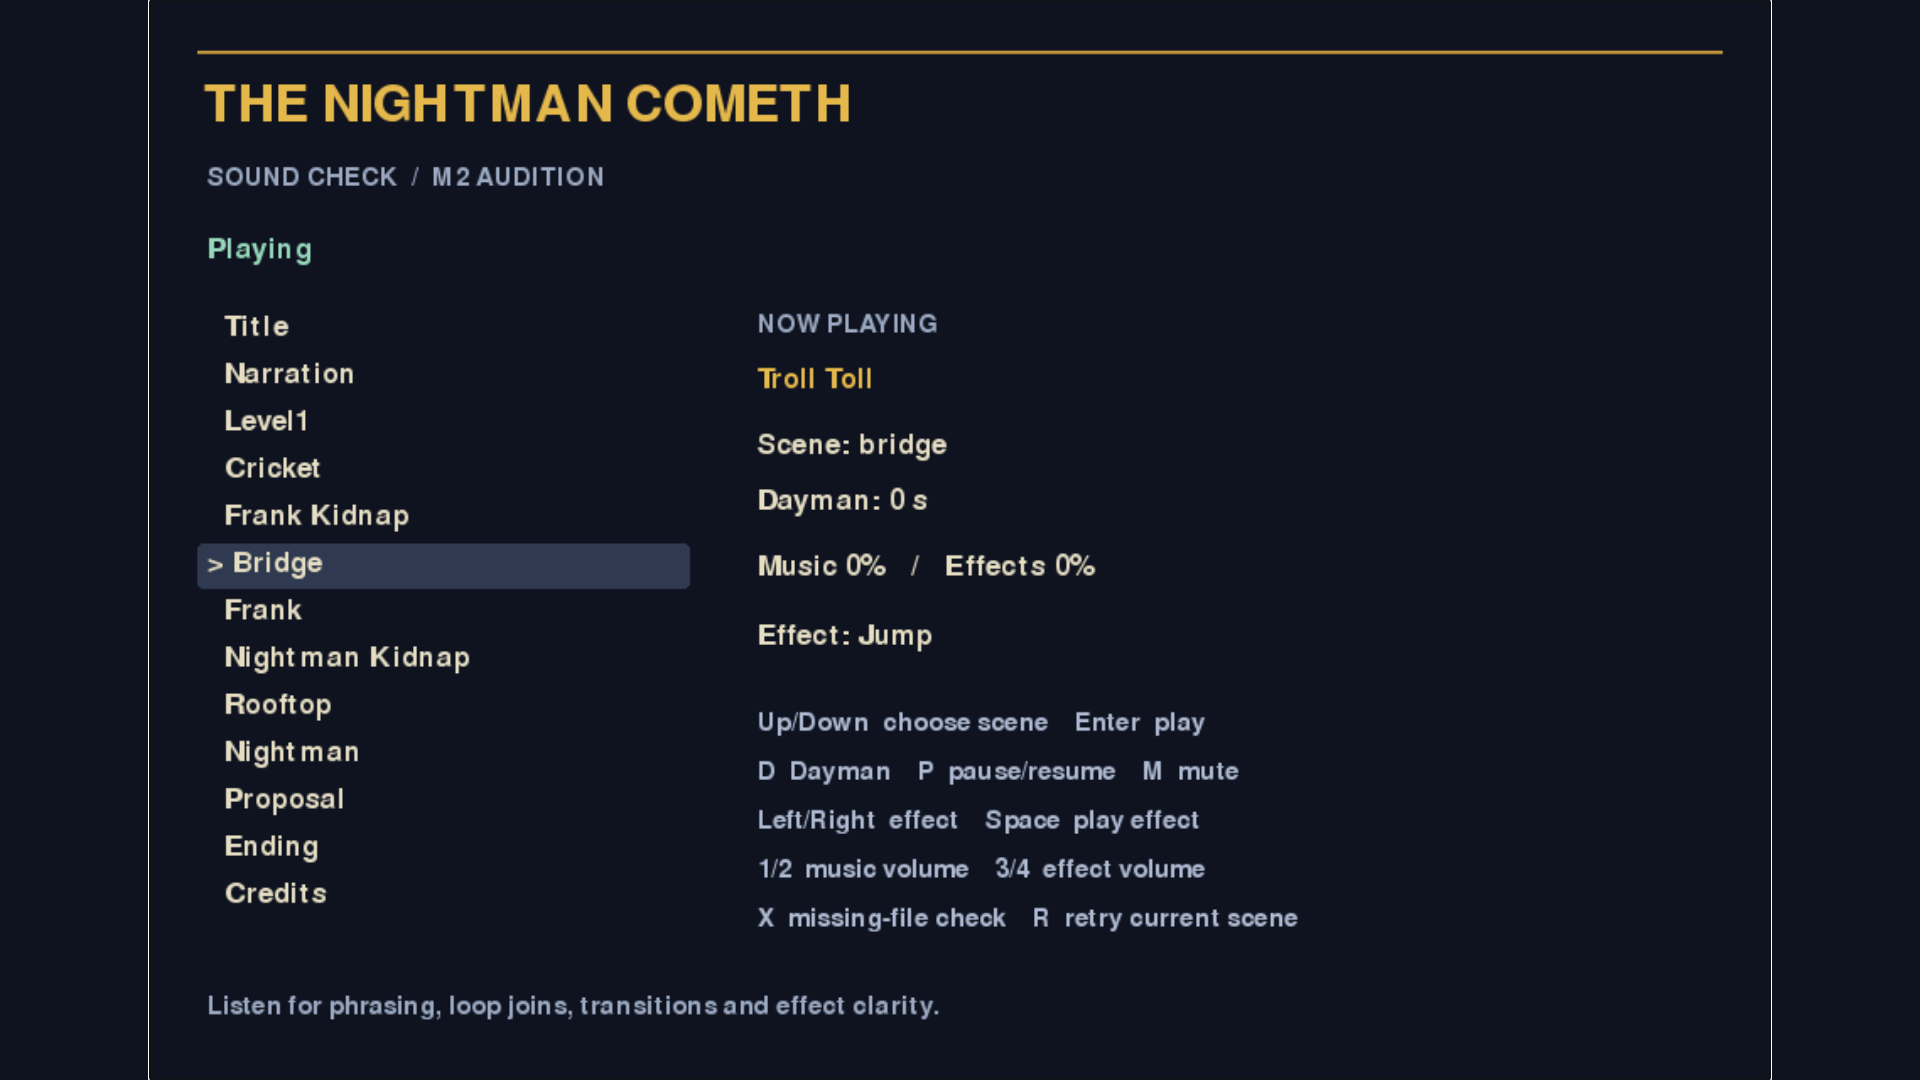
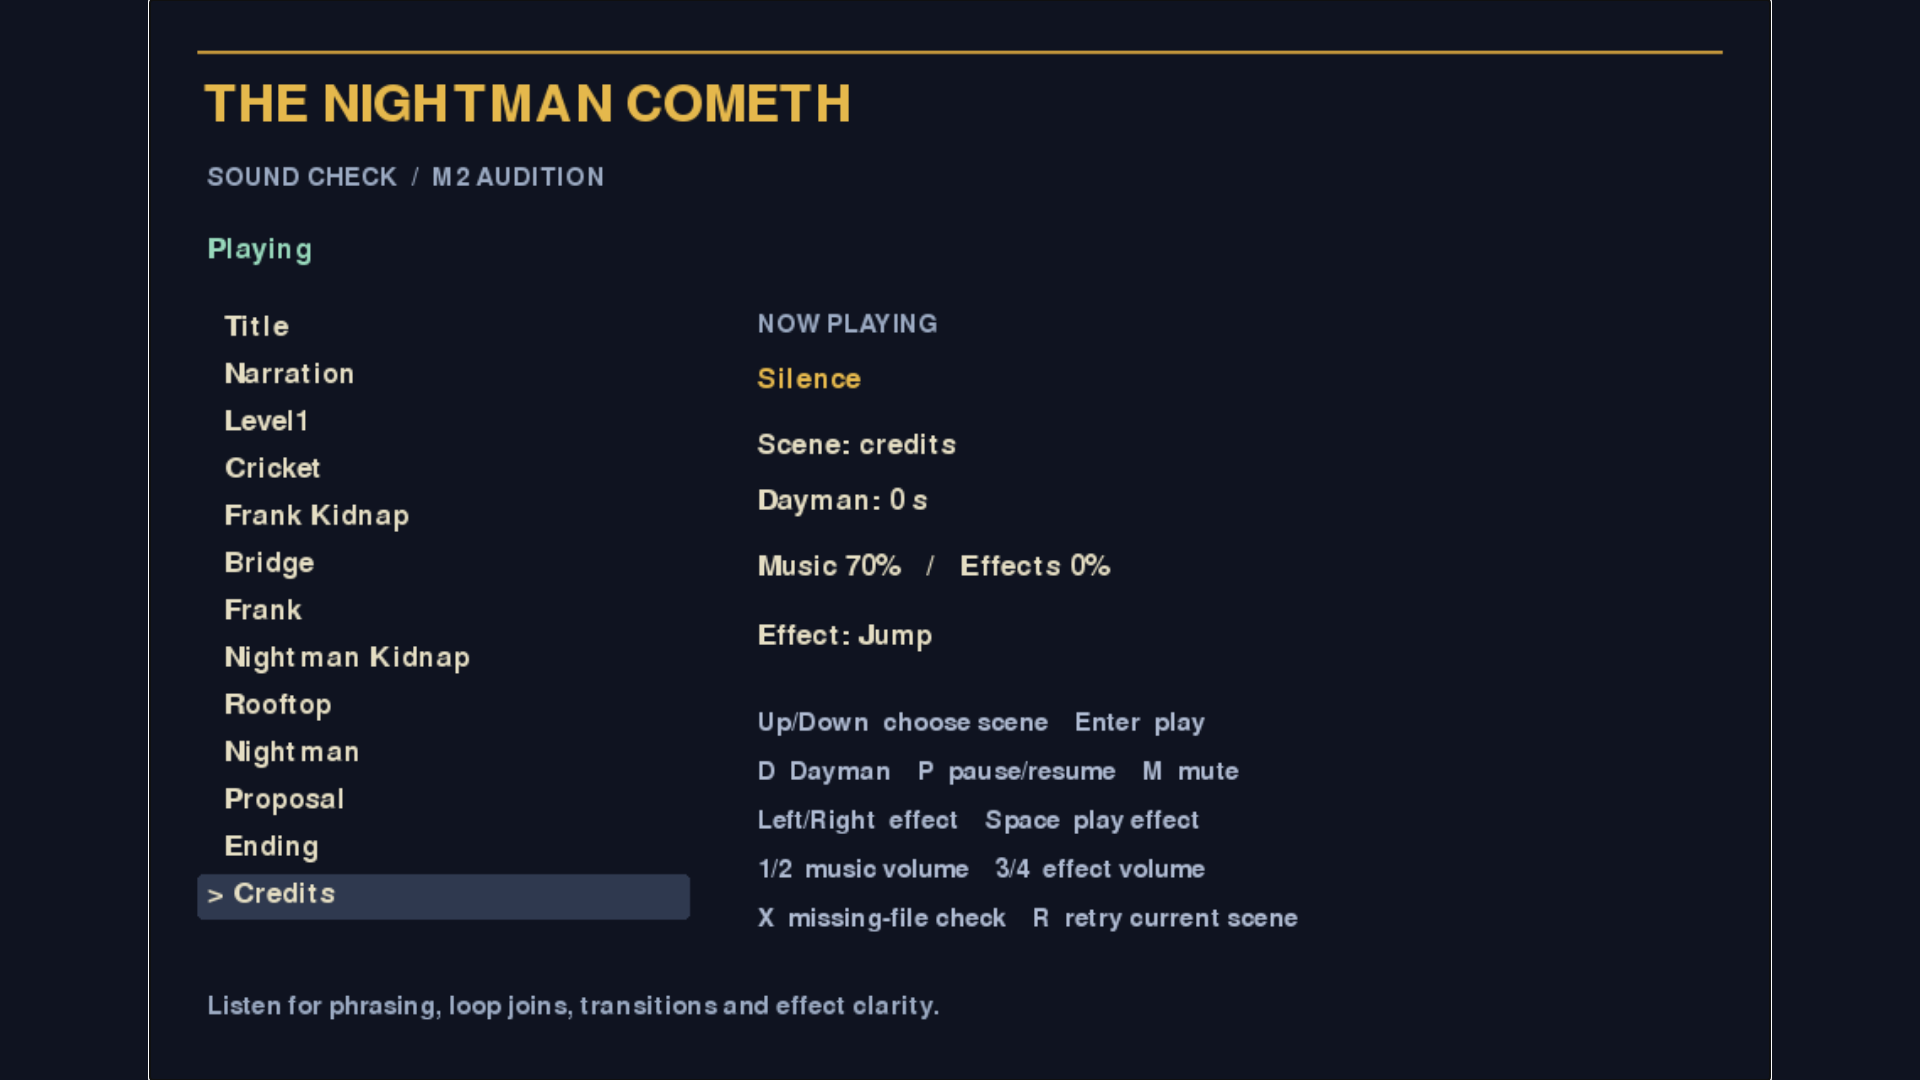
fix(audio): play Dayman at ending and keep credits silent

diff --git a/tests/audio/browser_audition.py b/tests/audio/browser_audition.py
@@ -75,6 +75,21 @@ def main():
             for _ in range(7):key('1',20);key('3',20)
             assert state()['gains']==[0.0,0.0]
             checks.append('actual effect voice cap and independent zero music/effect volumes')
+            # Real-time finite proposal leads into Dayman, then silent credits.
+            for _ in range(7):key('2',20)
+            for _ in range(5):key('ArrowDown',30)
+            key('Enter');assert state()['scene']=='proposal'
+            page.wait_for_timeout(58000)
+            assert state()['scene']=='ending' and state()['playing']=='dayman'
+            assert state()['music_busy']==1
+            capture('ending-dayman-1280')
+            for _ in range(2):key('ArrowDown',30)
+            key('Enter',400)
+            assert state()['scene']=='credits' and state()['playing'] is None
+            assert state()['music_busy']==0
+            key('r',400);assert state()['music_busy']==0 and not state()['error']
+            capture('credits-silent-1280')
+            checks.append('full proposal to ending Dayman; credits and retry silent')
             page.set_viewport_size({'width':1920,'height':1080});page.wait_for_timeout(300);capture('desktop-1920')
             page.set_viewport_size({'width':390,'height':844});page.wait_for_timeout(300)
             assert page.locator('#narrow').is_visible()

diff --git a/tests/audio/test_director.py b/tests/audio/test_director.py
@@ -50,3 +50,20 @@ def test_sting_advances_but_skip_and_retry_clear_transients(rig):
 @pytest.mark.parametrize('scene',['../secret','bogus'])
 def test_invalid_scene_rejected(rig,scene):
     with pytest.raises(ValueError):rig[0].set_scene(scene)
+
+
+def test_production_finale_plays_dayman_then_silent_credits():
+    import json
+    from pathlib import Path
+    manifest = json.loads((Path(__file__).resolve().parents[2] / 'assets/audio/production/manifest.json').read_text())
+    backend = Backend()
+    director = Director(manifest, backend)
+    director.unlock()
+    director.set_scene('proposal')
+    director.tick(manifest['cues']['proposal']['duration'])
+    assert director.scene == 'ending'
+    assert backend.current == 'dayman'
+    director.set_scene('credits')
+    assert backend.current is None
+    director.retry()
+    assert backend.current is None and not director.error

diff --git a/tools/audio/production.py b/tools/audio/production.py
@@ -130,7 +130,7 @@ def export(output):
         'title':'dayman','narration':'proposal','level1':'little-boy','cricket':'cricket-boss',
         'frank-kidnap':'frank-kidnap','bridge':'troll-toll','frank':'frank-boss',
         'nightman-kidnap':'nightman-kidnap','rooftop':'rooftop','nightman':'nightman-boss',
-        'proposal':'proposal','ending':None,'credits':'dayman'},
+        'proposal':'proposal','ending':'dayman','credits':None},
         'next':{'frank-kidnap':'bridge','nightman-kidnap':'rooftop','proposal':'ending'},
         'mix':{'music_gain_cap':.65,'sfx_gain_cap':.5,'sfx_voices':4},
         'approval':'New arrangements/effects and browser hearing pending; original six compositions approved'}

diff --git a/docs/evidence/M2/finale-routing.md b/docs/evidence/M2/finale-routing.md
@@ -1,0 +1,39 @@
+# M2 approved finale routing
+
+User approved actual browser listening, with ending Dayman and silent credits.
+Future original Sunny-style credits music is [deferred in issue #12](https://github.com/talaniz/the-nightman-cometh/issues/12).
+This supersedes earlier pending-listening notes and the prior ending/credits map.
+No recording, synthesis, gain, timing or game-story dialogue changed.
+
+## Verification
+
+- New real-manifest Director regression failed `None == 'dayman'` before the map
+  correction; now all 8 director tests pass. Full audio suite: 96 passed (76.23s).
+- Full production CLI export to a new directory reproduced every current master,
+  Ogg and manifest byte. The only production asset difference from prior head is
+  the ending/credits scene mapping; original approved audio is unchanged.
+- Actual browser harness follows the full proposal, observes ending Dayman,
+  selects credits, observes no busy music channel, retries and remains silent.
+  Initial harness reload triggered a browser beforeunload warning; removed that
+  unnecessary reload and used ordinary scene navigation, without filtering errors.
+- Refreshed browser captures and manifest identify the tested build and source
+  fingerprint. Includes ending and credits plus all prior affected audition states.
+- Use http://127.0.0.1:8765 for listening. The literal localhost hostname triggers
+  upstream pygbag development dependency routing; this is a documented restriction.
+
+Source build: `/tmp/nightman-audition-ending-v2`. Commands:
+
+```
+PYTHONDONTWRITEBYTECODE=1 /tmp/nightman-m2-tools/bin/python -m pytest tests/audio -q -p no:cacheprovider
+PYTHONDONTWRITEBYTECODE=1 /tmp/nightman-m2-tools/bin/python -m tools.audio.production --output /tmp/nightman-ending-export-v2
+PYTHONDONTWRITEBYTECODE=1 /tmp/nightman-m2-tools/bin/python tools/audition.py --build /tmp/nightman-audition-ending-v2
+PYTHONDONTWRITEBYTECODE=1 /tmp/nightman-m2-tools/bin/python tests/audio/browser_audition.py --build /tmp/nightman-audition-ending-v2 --evidence /tmp/nightman-ending-evidence-v3
+```
+
+Independent exact-head review must cover this change before readiness. No merge,
+deployment, gameplay, physical USB or final-game acceptance is claimed.
+
+Final browser rerun: eight workflow groups passed, ten screenshots captured and
+visually inspected by main; no unexpected console/page/network errors. Captures
+cover 1280x720, 1920x1080 and 390x844. No private content. Runtime source and asset
+manifest were unchanged after capture; source fingerprint is in browser/manifest.json.

diff --git a/planning/milestones/M2-audio-production.md b/planning/milestones/M2-audio-production.md
@@ -1,6 +1,6 @@
 # M2 — Soundtrack arrangements and separate SFX phase
 
-Status: in progress. M1 accepted at 001cc40559b9e4b0e9b9a99b738a79c22a0693d1; PR #10 non-draft, unmerged. Six original compositions approved by user. Production exports/SFX and actual browser sound-check delivered; final new-audio listening and current review pending.
+Status: all audio samples and actual browser listening approved by user. Ending Dayman / silent credits adjustment implemented; final exact-head review pending. Future credits composition deferred to issue #12.
 
 - Branch/worktree: `milestone/m2-audio-production` at `/home/palpatine/projects/the-nightman-cometh-m2`, stacked on the exact accepted M1 head; see context/PR. One PR across these phases.
 - Allowed paths: assets/audio/, tools/audio/, tools/audition.py, tools/check_audio.py, tests/audio/, docs/evidence/M2/, planning/
@@ -62,3 +62,8 @@ artifacts and runtime checks. Human approval of expanded/faster/looped audio and
 SFX, plus actual human browser hearing, remain open. Do not mark M2 complete from
 headless tests or the prior six-composition approval. Final whole-game sign-off
 remains reserved by the user.
+
+
+Latest acceptance supersedes earlier pending-listening execution notes: user approved
+the actual browser audition on 2026-10-25. No musical changes requested except
+ending Dayman and silent credits. See docs/evidence/M2/finale-routing.md.

diff --git a/tools/audio/PRODUCTION.md b/tools/audio/PRODUCTION.md
@@ -15,7 +15,7 @@ python tools/audition.py --manifest assets/audio/production/manifest.json --buil
 python -m http.server 8765 --bind 127.0.0.1 --directory /tmp/nightman-new-audition
 ```
 
-Open localhost:8765 in a desktop browser. The browser runtime may first request
+Open http://127.0.0.1:8765 in a desktop browser. The browser runtime may first request
 a click; Enter inside the app enables music. Up/down selects scenes and Enter
 plays; D starts the 10-second Dayman override; P pauses/resumes; M mutes. Left/right
 selects an effect, Space plays it. 1/2 changes music volume, 3/4 effects volume.
@@ -79,3 +79,5 @@ is not supported or claimed. Build hashes identify the tested artifact; SDK buil
 timestamps mean whole archives are not asserted byte-identical across builds.
 M3 owns the game's loader/recovery, deployment packaging and integrated controls.
 This sound-check app is not game content, a deployment or final acceptance.
+Use the numeric loopback address: upstream runtime treats the literal localhost
+hostname as development mode and can request dependencies from the wrong port.

diff --git a/planning/M2-production-contract.md b/planning/M2-production-contract.md
@@ -60,3 +60,13 @@ Chromium. Record actual failing assertions, commands/results, source fingerprint
 asset hashes and capture dimensions. No screenshot or listening claim from unit
 checks. Browser audio analyser/mixer state checks are technical playback evidence,
 not human hearing. Human musical acceptance stays separate from full-game sign-off.
+
+## Approved finale routing adjustment (2026-10-25)
+User approved browser listening and requested Dayman for ending, silent credits,
+and deferred original Sunny-style credits music (GitHub issue #12).
+Scope: production scene map/exporter, director regression, browser finale checks,
+cue/spec/status documentation and refreshed audition evidence. Audio bytes unchanged.
+Acceptance: finite proposal advances to ending Dayman; choosing credits stops music;
+retry on credits stays silent. Exported and committed maps agree. Observe failing
+real-manifest director regression before changing maps, then run audio suite and
+actual pygbag browser flows with new screenshots. No new composition or deployment.

diff --git a/planning/context.md b/planning/context.md
@@ -78,3 +78,11 @@ New listening samples delivered privately through Drive; no private links in Git
 Current screenshots/manifest at docs/evidence/M2/browser; evidence includes source
 fingerprint. Review gates must be renewed for the production commit. M2 remains
 draft until new-audio human listening and browser-hearing gates are satisfied.
+
+
+## M2 listening approval and finale adjustment (2026-10-25)
+User approved the browser audition after using numeric loopback; earlier pending
+listening statements are superseded. Ending now uses approved Dayman; credits
+are silent. Original Sunny-style credits music deferred to GitHub issue #12.
+No audio bytes changed. New routing regression failed before map correction.
+Final exact-head reviews and refreshed browser evidence pending; no merge/deploy.

diff --git a/planning/music-cue-map.md b/planning/music-cue-map.md
@@ -17,7 +17,8 @@ approvals establish musical direction, not full-length cue approval.
 | Rooftop level | Original | Tense nighttime theme |
 | Nightman boss | Original | Faster/intense final-boss theme, distinct from approach |
 | Final rescue / Charlie proposal | Proposal Song | Finite cue, readable stills; duck/stop for final joke |
-| End / credits | Dayman | Final transition and credits arrangement pending |
+| Ending | Dayman | Approved production cue |
+| Credits | Silence | Future original Sunny-style cue deferred: [issue #12](https://github.com/talaniz/the-nightman-cometh/issues/12) |
 | Dayman power-up | Faster Dayman variant | Slightly faster requested; 1.10x pitch-preserving audition proposed |
 
 Original music may draw broad rhythmic/timbral inspiration from TMNT arcade and

diff --git a/planning/release-notes.md b/planning/release-notes.md
@@ -38,3 +38,11 @@ unlock, independent volume/mute, crossfades, pause/blur, scene restoration and
 missing-file retry in actual Chromium. Approved source previews and original
 masters remain unchanged. New arrangements/effects await listening; this is
 not a playable game or full M2/final-game acceptance.
+
+
+## M2 listening approval and finale adjustment (2026-10-25)
+User approved the browser audition after using numeric loopback; earlier pending
+listening statements are superseded. Ending now uses approved Dayman; credits
+are silent. Original Sunny-style credits music deferred to GitHub issue #12.
+No audio bytes changed. New routing regression failed before map correction.
+Final exact-head reviews and refreshed browser evidence pending; no merge/deploy.

diff --git a/docs/evidence/M2/production.md b/docs/evidence/M2/production.md
@@ -81,3 +81,11 @@ merge or deployment. New per-commit review, prior final-head revalidation and
 separate E2E review must cover this commit. M2 stays draft pending remaining
 human listening/browser-hearing evidence. Final whole-game sign-off is reserved
 by the user after the remaining milestones and three qualifying playthroughs.
+
+
+## Superseding finale and listening evidence
+User approved browser listening. See [finale routing](finale-routing.md) for the
+new ending Dayman / silent credits map and refreshed browser evidence. Earlier
+pending-human-listening statements and screenshots are historical. Current
+browser/ contains ten refreshed captures, including ending-dayman-1280.png and
+credits-silent-1280.png; desktop-1920 now depicts silent credits.

diff --git a/planning/specification.md b/planning/specification.md
@@ -70,7 +70,7 @@ Still pixel-art scenes with speech bubbles, player-advanced and skippable with a
 14. Charlie: "Well, see you tomorrow."
 15. Dee: "I told you no one writes a musical for no reason!"
 16. Charlie, hand low: "Dee, I'm right here right now"; hand high: "but I'm about to go here!"
-17. End, then credits with Dayman. Proposal music ducks/stops for the final exchange;
+17. End with Dayman, then silent credits. Future original Sunny-style credits music is deferred to GitHub issue #12. Proposal music ducks/stops for the final exchange;
     exact fade timing is an M2 listening decision. Do not omit the see-you-tomorrow beat.
 
 ## Audio contract
